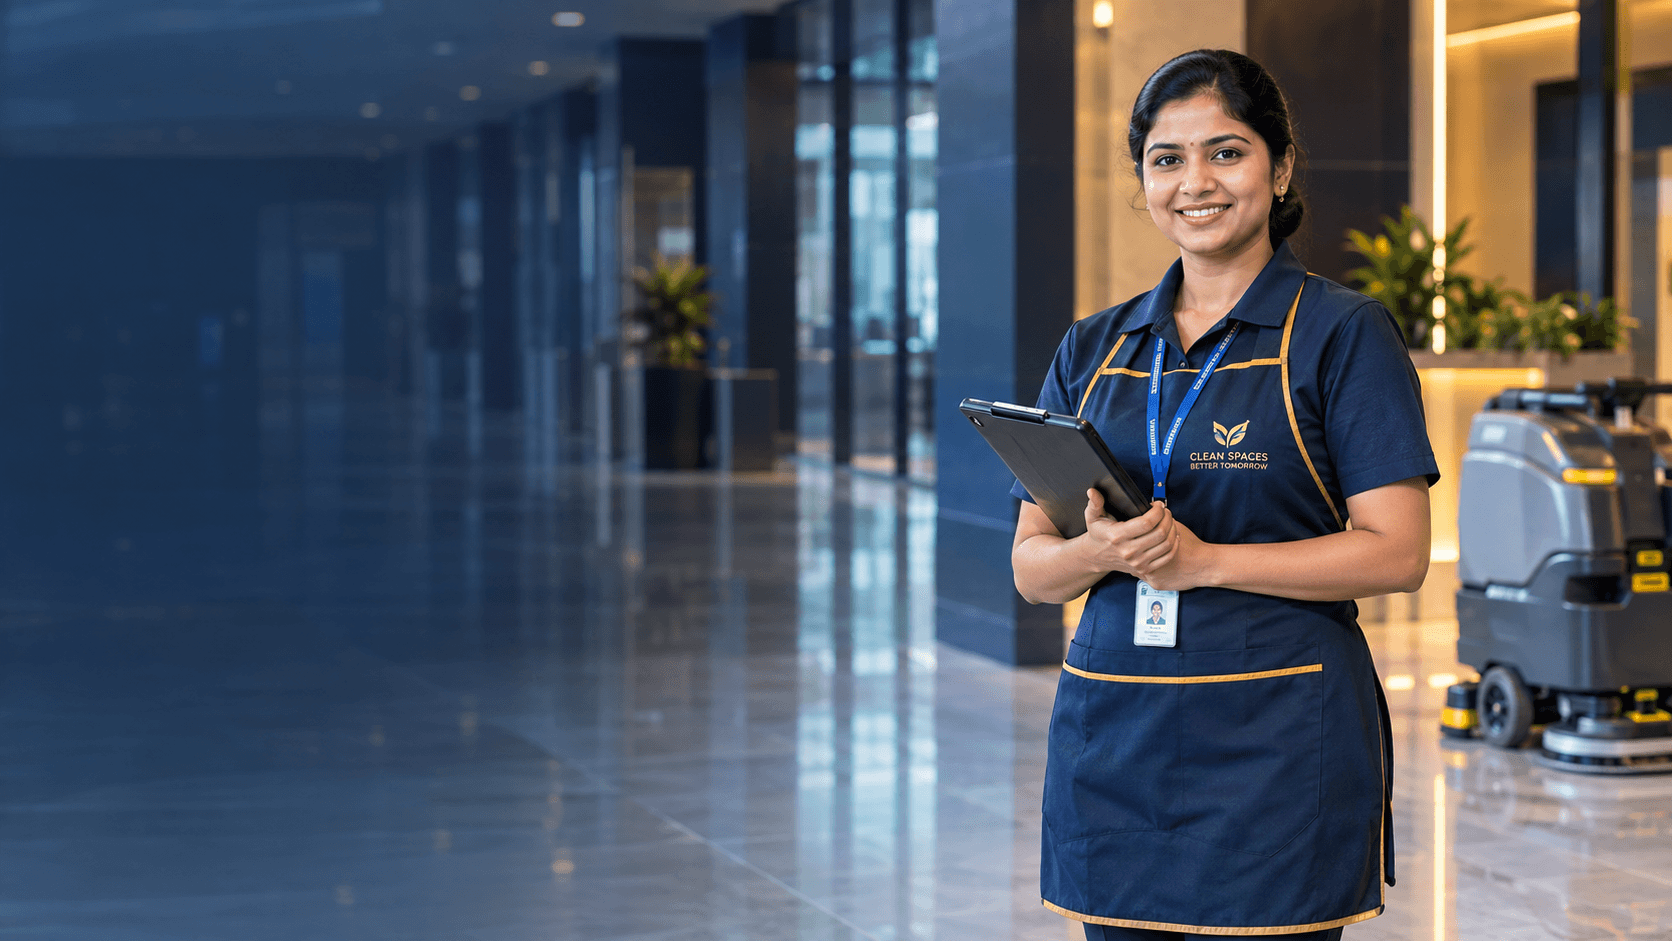
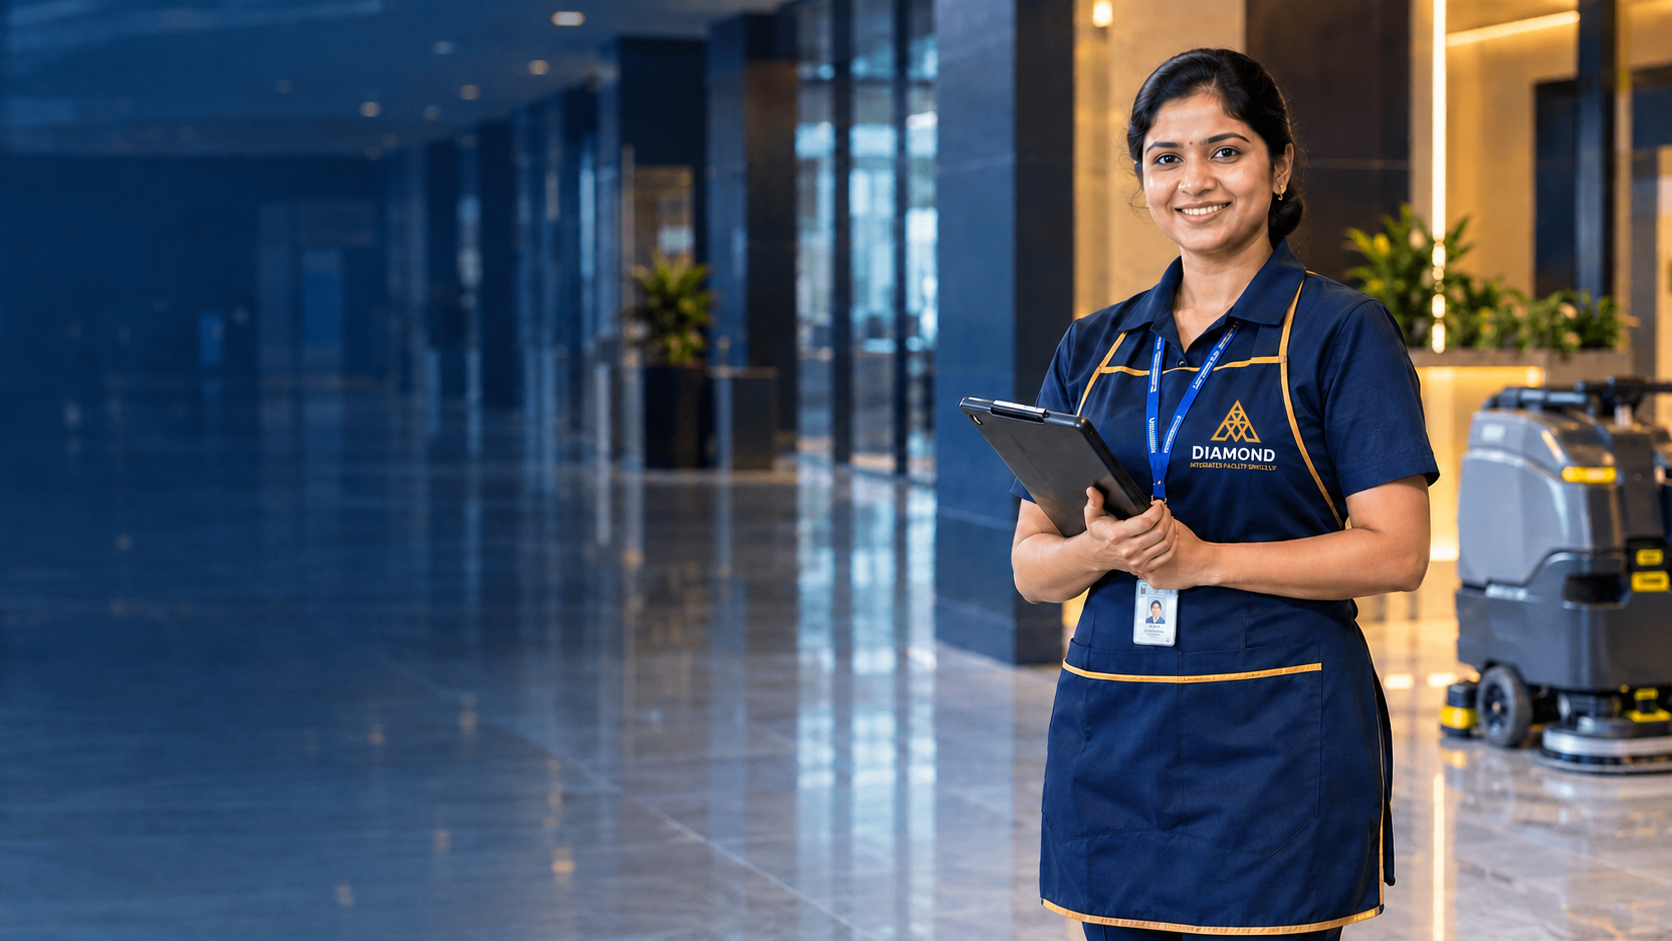
all updated

diff --git a/src/app/about/page.tsx b/src/app/about/page.tsx
@@ -96,8 +96,8 @@ export default function AboutPage() {
                 <ul className="mt-4 space-y-3">
                   {[
                     ["Service Lines", "11 Core Divisions (Security, Housekeeping, Pest Control, Manpower, Tank Cleaning, CCTV, Civil Upkeep)"],
-                    ["Client Types", "Commercial IT Parks, Residential Societies, Industrial Plants, Retail & Healthcare"],
-                    ["Service Region", "Pune, PCMC, Chakan, Talegaon, Hinjewadi & Maharashtra"],
+                    ["Client Types", "Commercial, Residential, Educational, Healthcare, Industrial, IT Parks, etc."],
+                    ["Service Region", "Pan-India / All India Coverage"],
                     ["Engagement Models", "Comprehensive AMC, Monthly Retainers, On-Demand Deep Cleaning & Turnkey Projects"],
                   ].map(([k, v]) => (
                     <li key={k} className="border-b border-white/10 pb-2.5 last:border-0 last:pb-0">
@@ -167,10 +167,10 @@ export default function AboutPage() {
                   Mission
                 </h2>
                 <p className="text-xs sm:text-base leading-relaxed text-muted-foreground font-normal">
-                  To deliver tailored, innovative, and sustainable facility management solutions that protect and optimize our clients’ assets across Pune, PCMC, and Maharashtra, leveraging advanced technology and a commitment to quality, environmental stewardship, and operational excellence for seamless, efficient, and eco-friendly service delivery.
+                  To deliver tailored, innovative, and sustainable facility management solutions that protect and optimize our clients’ assets across India (Pan-India), leveraging advanced technology and a commitment to quality, environmental stewardship, and operational excellence for seamless, efficient, and eco-friendly service delivery.
                 </p>
                 <div className="pt-2 flex flex-wrap gap-2 sm:gap-3">
-                  {["Operational Excellence", "100% Asset Protection", "Eco-Friendly Delivery"].map((tag) => (
+                  {["Pan-India Coverage", "100% Asset Protection", "Operational Excellence"].map((tag) => (
                     <span key={tag} className="inline-flex items-center gap-1.5 rounded-lg border border-slate-200 bg-white px-3 py-1.5 text-xs font-semibold text-navy shadow-2xs">
                       <Icon name="check" className="h-3.5 w-3.5 text-emerald-600" />
                       {tag}
@@ -194,65 +194,135 @@ export default function AboutPage() {
             </div>
           </InView>
 
-          {/* 3. Our Values: Image Left, Content Right */}
+          {/* 3. Our Core Values: Image Left, Content Right */}
           <InView direction="up">
-            <div className="grid items-center gap-8 lg:grid-cols-2 lg:gap-12 xl:gap-16">
-              <div className="relative overflow-hidden rounded-2xl sm:rounded-3xl border border-gold/30 bg-navy shadow-xl group">
-                <img
-                  src="/images/about/values.webp"
-                  alt="Diamond Integrated Facility Services Team and Values"
-                  loading="lazy"
-                  className="h-64 sm:h-80 lg:h-96 w-full object-cover transition-transform duration-700 ease-out group-hover:scale-105"
-                />
-                <div className="absolute inset-0 bg-gradient-to-t from-navy/60 via-transparent to-transparent" />
-                <div className="absolute bottom-4 left-4 rounded-xl border border-gold/40 bg-navy/85 px-3.5 py-1.5 text-xs font-bold text-gold backdrop-blur-md">
-                  Client-Centric Integrity
+            <div className="grid items-start gap-8 lg:grid-cols-12 lg:gap-12 xl:gap-14">
+              {/* Left Visual Column */}
+              <div className="lg:col-span-4 lg:sticky lg:top-24 space-y-4">
+                <div className="relative overflow-hidden rounded-2xl sm:rounded-3xl border border-gold/30 bg-navy shadow-xl group">
+                  <img
+                    src="/images/about/values.webp"
+                    alt="Diamond Integrated Facility Services Team and Values"
+                    loading="lazy"
+                    className="h-64 sm:h-80 lg:h-96 w-full object-cover transition-transform duration-700 ease-out group-hover:scale-105"
+                  />
+                  <div className="absolute inset-0 bg-gradient-to-t from-navy/80 via-navy/20 to-transparent" />
+                  <div className="absolute bottom-4 left-4 right-4 rounded-xl border border-gold/40 bg-navy/90 p-3 text-gold backdrop-blur-md">
+                    <p className="text-[10px] font-bold uppercase tracking-wider text-gold/80">Our Philosophy</p>
+                    <p className="mt-0.5 text-xs font-semibold text-white">10 Pillars of Operational Excellence</p>
+                  </div>
+                </div>
+
+                {/* 5 Core Pillars Badge Box */}
+                <div className="rounded-2xl border border-slate-200/80 bg-white p-4 shadow-2xs">
+                  <p className="text-[11px] font-bold uppercase tracking-wider text-navy">Key Value Pillars</p>
+                  <div className="mt-2.5 flex flex-wrap gap-1.5">
+                    {["Trust", "Quality", "Safety", "Professionalism", "Customer Satisfaction"].map((pillar) => (
+                      <span key={pillar} className="inline-flex items-center gap-1 rounded-full border border-gold/40 bg-gold/10 px-2.5 py-1 text-[10.5px] font-semibold text-navy">
+                        <span className="h-1.5 w-1.5 rounded-full bg-gold" />
+                        {pillar}
+                      </span>
+                    ))}
+                  </div>
                 </div>
               </div>
 
-              <div className="space-y-4">
-                <div className="inline-flex items-center gap-2 text-xs font-bold uppercase tracking-widest text-gold">
-                  <span className="h-1.5 w-6 rounded-full bg-gold" />
-                  Guiding Principles
+              {/* Right Column: 10 Core Values Grid */}
+              <div className="lg:col-span-8 space-y-5">
+                <div>
+                  <div className="inline-flex items-center gap-2 text-xs font-bold uppercase tracking-widest text-gold">
+                    <span className="h-1.5 w-6 rounded-full bg-gold" />
+                    Guiding Principles
+                  </div>
+                  <h2 className="mt-1 font-display text-2xl sm:text-3xl lg:text-4xl font-extrabold text-navy tracking-tight">
+                    Our Core Values
+                  </h2>
+                  <p className="mt-2 text-xs sm:text-sm leading-relaxed text-muted-foreground font-normal">
+                    The foundational principles that guide our personnel, leadership, and operational culture across every facility in India.
+                  </p>
                 </div>
-                <h2 className="font-display text-2xl sm:text-3xl lg:text-4xl font-extrabold text-navy tracking-tight">
-                  Our Values
-                </h2>
-                <p className="text-xs sm:text-base leading-relaxed text-muted-foreground font-normal">
-                  The foundational principles that guide our personnel across every deployment, audit, and facility across India.
-                </p>
 
-                <div className="pt-2 grid gap-3 sm:grid-cols-2">
+                <div className="grid gap-3 sm:grid-cols-2">
                   {[
                     {
+                      num: "01",
                       title: "Integrity & Trust",
-                      desc: "100% transparent statutory records, honest billing, and uncompromised ethical standards.",
+                      desc: "We conduct our business with honesty, transparency, and ethical practices.",
                       icon: "shield",
                     },
                     {
-                      title: "Customer Centricity",
-                      desc: "Customizing solutions around unique property needs with direct responsiveness.",
+                      num: "02",
+                      title: "Customer First",
+                      desc: "We understand our clients' needs and deliver services focused on their satisfaction.",
+                      icon: "heart",
+                    },
+                    {
+                      num: "03",
+                      title: "Quality & Excellence",
+                      desc: "We maintain high standards and continuously improve our services and processes.",
+                      icon: "award",
+                    },
+                    {
+                      num: "04",
+                      title: "Safety & Security",
+                      desc: "We prioritize the safety, security, and well-being of our clients, employees, and assets.",
+                      icon: "shield",
+                    },
+                    {
+                      num: "05",
+                      title: "Professionalism",
+                      desc: "We maintain discipline, punctuality, accountability and professional standards in everything we do.",
+                      icon: "briefcase",
+                    },
+                    {
+                      num: "06",
+                      title: "People & Teamwork",
+                      desc: "We respect our employees, encourage teamwork, and create a positive working environment.",
                       icon: "users",
                     },
                     {
-                      title: "Safety & Compliance",
-                      desc: "Strict adherence to Indian labor laws (ESIC, EPFO, PSARA) and safety SOPs.",
+                      num: "07",
+                      title: "Reliability & Accountability",
+                      desc: "We take responsibility for our commitments and deliver dependable services consistently.",
                       icon: "check",
                     },
                     {
-                      title: "Excellence & Innovation",
-                      desc: "Modern mechanized equipment, digital QR checklists, and sustainable green chemicals.",
+                      num: "08",
+                      title: "Innovation & Continuous Improvement",
+                      desc: "We adopt better technologies, methods, and practices to improve efficiency and service delivery.",
                       icon: "sparkles",
                     },
+                    {
+                      num: "09",
+                      title: "Respect & Responsibility",
+                      desc: "We treat clients, employees, vendors, and communities with dignity and respect.",
+                      icon: "layers",
+                    },
+                    {
+                      num: "10",
+                      title: "Sustainable Practices",
+                      desc: "We promote environmentally responsible and resource-efficient facility management practices.",
+                      icon: "leaf",
+                    },
                   ].map((val) => (
-                    <div key={val.title} className="rounded-xl border border-slate-200/85 bg-white p-3.5 shadow-2xs hover:border-gold/50 transition-colors">
-                      <div className="flex items-center gap-2">
-                        <span className="grid h-7 w-7 shrink-0 place-items-center rounded-lg bg-gold/15 text-gold border border-gold/30">
-                          <Icon name={val.icon} className="h-3.5 w-3.5" />
+                    <div
+                      key={val.title}
+                      className="group relative rounded-xl border border-slate-200/80 bg-white p-3.5 sm:p-4 shadow-2xs hover:border-gold/60 hover:shadow-md transition-all duration-300 hover:-translate-y-0.5"
+                    >
+                      <div className="flex items-start justify-between gap-2">
+                        <div className="flex items-center gap-2.5">
+                          <span className="grid h-8 w-8 shrink-0 place-items-center rounded-lg bg-gold/10 text-gold border border-gold/30 group-hover:bg-gold group-hover:text-white transition-colors duration-300">
+                            <Icon name={val.icon} className="h-4 w-4" />
+                          </span>
+                          <h4 className="text-xs sm:text-sm font-bold text-navy group-hover:text-gold transition-colors duration-300">
+                            {val.title}
+                          </h4>
+                        </div>
+                        <span className="text-[10px] font-mono font-bold text-gold/70 group-hover:text-gold transition-colors">
+                          {val.num}
                         </span>
-                        <h4 className="text-xs sm:text-sm font-bold text-navy">{val.title}</h4>
                       </div>
-                      <p className="mt-2 text-[11px] sm:text-xs text-muted-foreground leading-relaxed">
+                      <p className="mt-2 text-[11.5px] sm:text-xs text-muted-foreground leading-relaxed">
                         {val.desc}
                       </p>
                     </div>

diff --git a/src/components/site/Sections.tsx b/src/components/site/Sections.tsx
@@ -297,16 +297,16 @@ export function CTABanner() {
             {/* Eyebrow badge */}
             <div className="inline-flex items-center gap-2 rounded-full border border-gold/40 bg-gold/15 px-3.5 py-1 text-[11px] font-bold uppercase tracking-[0.16em] text-gold shadow-xs backdrop-blur-xs">
               <span className="h-2 w-2 rounded-full bg-gold animate-pulse shadow-[0_0_6px_rgba(217,155,56,0.8)]" />
-              <span>Partner With Pune&apos;s Facility Specialists</span>
+              <span>Pan-India Facility Management Specialists</span>
             </div>
 
             <h2 className="mt-4 font-display text-2xl font-extrabold text-white sm:text-3xl lg:text-4xl tracking-tight">
-              Looking for a Reliable Integrated Facility Partner in Pune?
+              Looking for a Reliable Integrated Facility Partner Across India?
             </h2>
             <p className="mx-auto mt-3 max-w-2xl text-xs sm:text-sm text-slate-200 leading-relaxed font-normal">
               Tell us your property requirements and receive a transparent commercial quotation backed by single-point operations management.
             </p>
-            <div className="mt-8 flex flex-wrap justify-center items-center gap-4">
+            <div className="mt-8 flex flex-wrap justify-center items-center gap-3.5 sm:gap-4">
               <button
                 className="btn-base btn-live-gold font-bold px-7 py-3.5 rounded-xl text-xs sm:text-sm shadow-lg flex items-center gap-2 group"
                 onClick={() => openQuote()}
@@ -316,10 +316,18 @@ export function CTABanner() {
                 <Icon name="arrow" className="relative z-10 h-4 w-4 transition-transform duration-300 group-hover:translate-x-1" />
               </button>
               <a
-                href="tel:+919689515295"
-                className="btn-base btn-live-glass font-mono font-bold text-white px-6 py-3.5 rounded-xl text-xs sm:text-sm flex items-center gap-2 border border-white/25 shadow-md"
+                href="tel:02045355544"
+                className="btn-base btn-live-glass font-mono font-bold text-white px-5 py-3.5 rounded-xl text-xs sm:text-sm flex items-center gap-2 border border-white/25 shadow-md hover:border-gold/60"
               >
-                <Icon name="phone" className="h-4 w-4 text-gold" /> +91 9689515295
+                <Icon name="phone" className="h-4 w-4 text-amber-300" />
+                <span>020 45355544 <span className="text-[10px] font-normal text-slate-300 font-sans">(Landline)</span></span>
+              </a>
+              <a
+                href="tel:+919689515295"
+                className="btn-base btn-live-glass font-mono font-bold text-white px-5 py-3.5 rounded-xl text-xs sm:text-sm flex items-center gap-2 border border-white/25 shadow-md hover:border-gold/60"
+              >
+                <Icon name="phone" className="h-4 w-4 text-gold" />
+                <span>+91 9689515295</span>
               </a>
             </div>
           </div>

diff --git a/src/components/site/Footer.tsx b/src/components/site/Footer.tsx
@@ -38,20 +38,20 @@ export default function Footer() {
         <div className="space-y-4 lg:col-span-4">
           <Link
             href="/"
-            className="inline-block rounded-2xl bg-white p-2.5 shadow-xl border border-white/30 transition-all duration-300 hover:scale-105 hover:shadow-gold/20"
+            className="inline-flex items-center rounded-full bg-white px-4 py-2 sm:px-5 sm:py-2.5 shadow-xl border border-gold/40 transition-all duration-300 hover:scale-105 hover:border-gold hover:shadow-gold/30"
           >
             <img
               src="/images/logo.png"
-              alt="Diamond Integrated Facility Services LLP"
-              className="h-11 w-auto max-w-[250px] object-contain"
+              alt="Diamond Security Services & Integrated Facility Solutions"
+              className="h-10 sm:h-11 w-auto max-w-[240px] object-contain"
             />
           </Link>
 
           <p className="text-slate-200 leading-relaxed text-xs sm:text-[13px] font-normal">
-            Professional Integrated Facility Management partner delivering 24/7 Security Guarding, Housekeeping, Property Management, Pest Control, Manpower Supply, Tank Sanitization, CCTV and Technical Civil Upkeep in Pune & PCMC.
+            <strong className="text-white font-semibold">Diamond Security Services & Integrated Facility Solutions:</strong> Delivering 24/7 Security Guarding, Housekeeping, Property Management, Pest Control, Manpower Supply, Tank Sanitization, CCTV and Technical Civil Upkeep Pan-India.
           </p>
 
-          <div className="inline-flex items-center gap-2 rounded-xl border border-gold/30 bg-navy-800/80 px-3 py-1.5 text-[11px] font-mono text-slate-200 shadow-sm backdrop-blur-xs">
+          <div className="inline-flex items-center gap-2 rounded-full border border-gold/30 bg-navy-800/80 px-3.5 py-1.5 text-[11px] font-mono text-slate-200 shadow-sm backdrop-blur-xs">
             <span className="h-2 w-2 rounded-full bg-gold animate-pulse shadow-[0_0_6px_rgba(217,155,56,0.8)]" />
             <span><strong className="text-amber-300 font-bold">Director:</strong> {company?.directorName || company?.director || "Umesh Patil"} • LLPIN Registered</span>
           </div>
@@ -270,7 +270,7 @@ export default function Footer() {
               <span className="animate-ping absolute inline-flex h-full w-full rounded-full bg-emerald-400 opacity-75" />
               <span className="relative inline-flex rounded-full h-2 w-2 bg-emerald-400" />
             </span>
-            <span>Registered Facility Partner • Pune, PCMC & Maharashtra</span>
+            <span>Registered Facility Partner • Pan-India Coverage</span>
           </div>
         </div>
       </div>

diff --git a/src/components/ui/Icon.tsx b/src/components/ui/Icon.tsx
@@ -39,6 +39,10 @@ const paths: Record<string, string> = {
   trash: "M4 7h16M9 7V4h6v3M6 7l1 13h10l1-13",
   info: "M12 21a9 9 0 100-18 9 9 0 000 18zM12 11v5M12 8h.01",
   quote: "M7 7h5v5c0 3-2 5-5 5V7zM14 7h5v5c0 3-2 5-5 5V7z",
+  award: "M12 15l-2 5l-4-2l-4 2l2-5a7 7 0 1 1 8 0z",
+  sparkles: "M12 3l1.5 4.5L18 9l-4.5 1.5L12 15l-1.5-4.5L6 9l4.5-1.5L12 3z",
+  leaf: "M11 20A7 7 0 0 1 4 13a7.8 7.8 0 0 1 1.7-5C8 5.6 11 3 20 3c0 9-2.6 12-5 14.3a7.8 7.8 0 0 1-5 1.7M2 21c0-3 1.8-6 5-8",
+  heart: "M19 14c1.49-1.46 3-3.21 3-5.5A5.5 5.5 0 0 0 16.5 3c-1.76 0-3 .5-4.5 2-1.5-1.5-2.74-2-4.5-2A5.5 5.5 0 0 0 2 8.5c0 2.3 1.5 4.05 3 5.5l7 7Z",
 };
 
 export interface IconProps {

diff --git a/src/components/site/Header.tsx b/src/components/site/Header.tsx
@@ -49,7 +49,7 @@ export default function Header({ onQuote }: HeaderProps) {
         >
           <img
             src="/images/logo.png"
-            alt="Diamond Integrated Facility Services LLP"
+            alt="Diamond Security Services & Integrated Facility Solutions"
             className="h-11 sm:h-12 w-auto max-w-[230px] sm:max-w-[290px] object-contain drop-shadow-xs group-hover:brightness-105 transition-all duration-300"
           />
         </Link>
